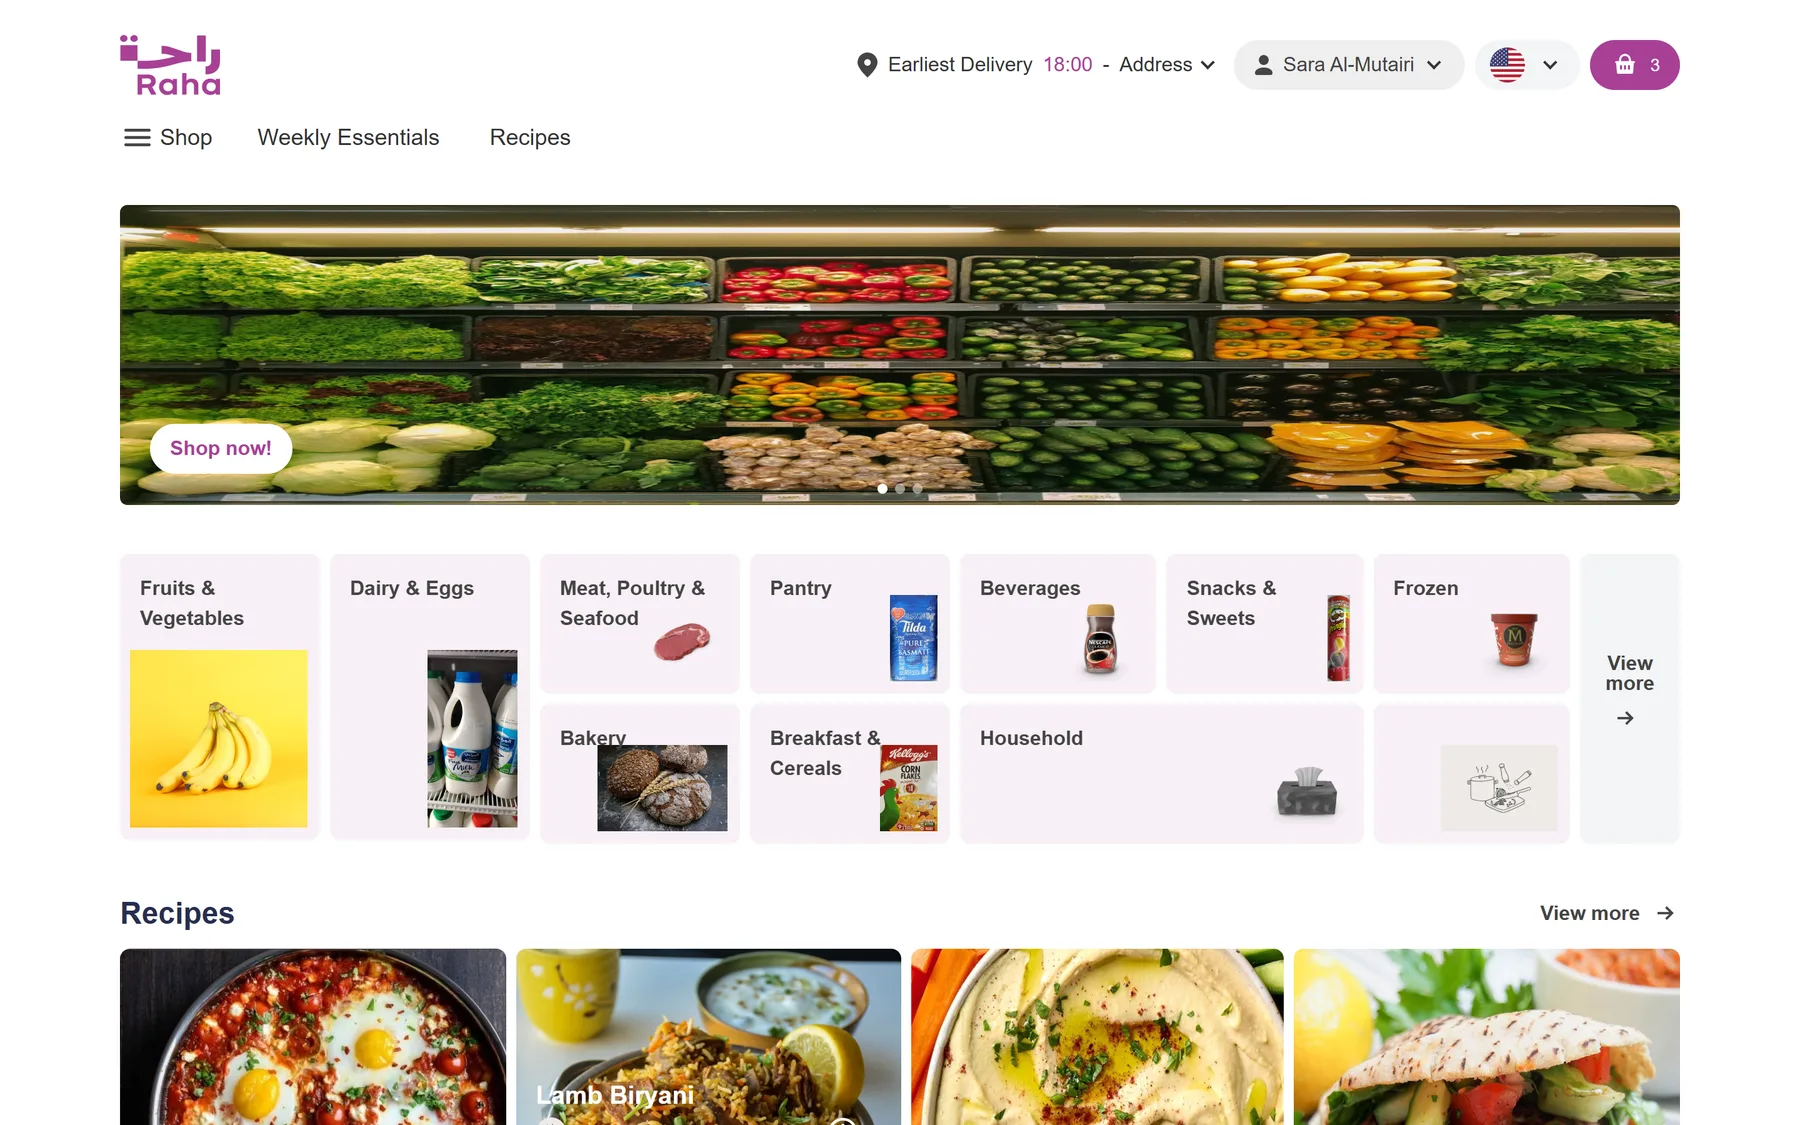
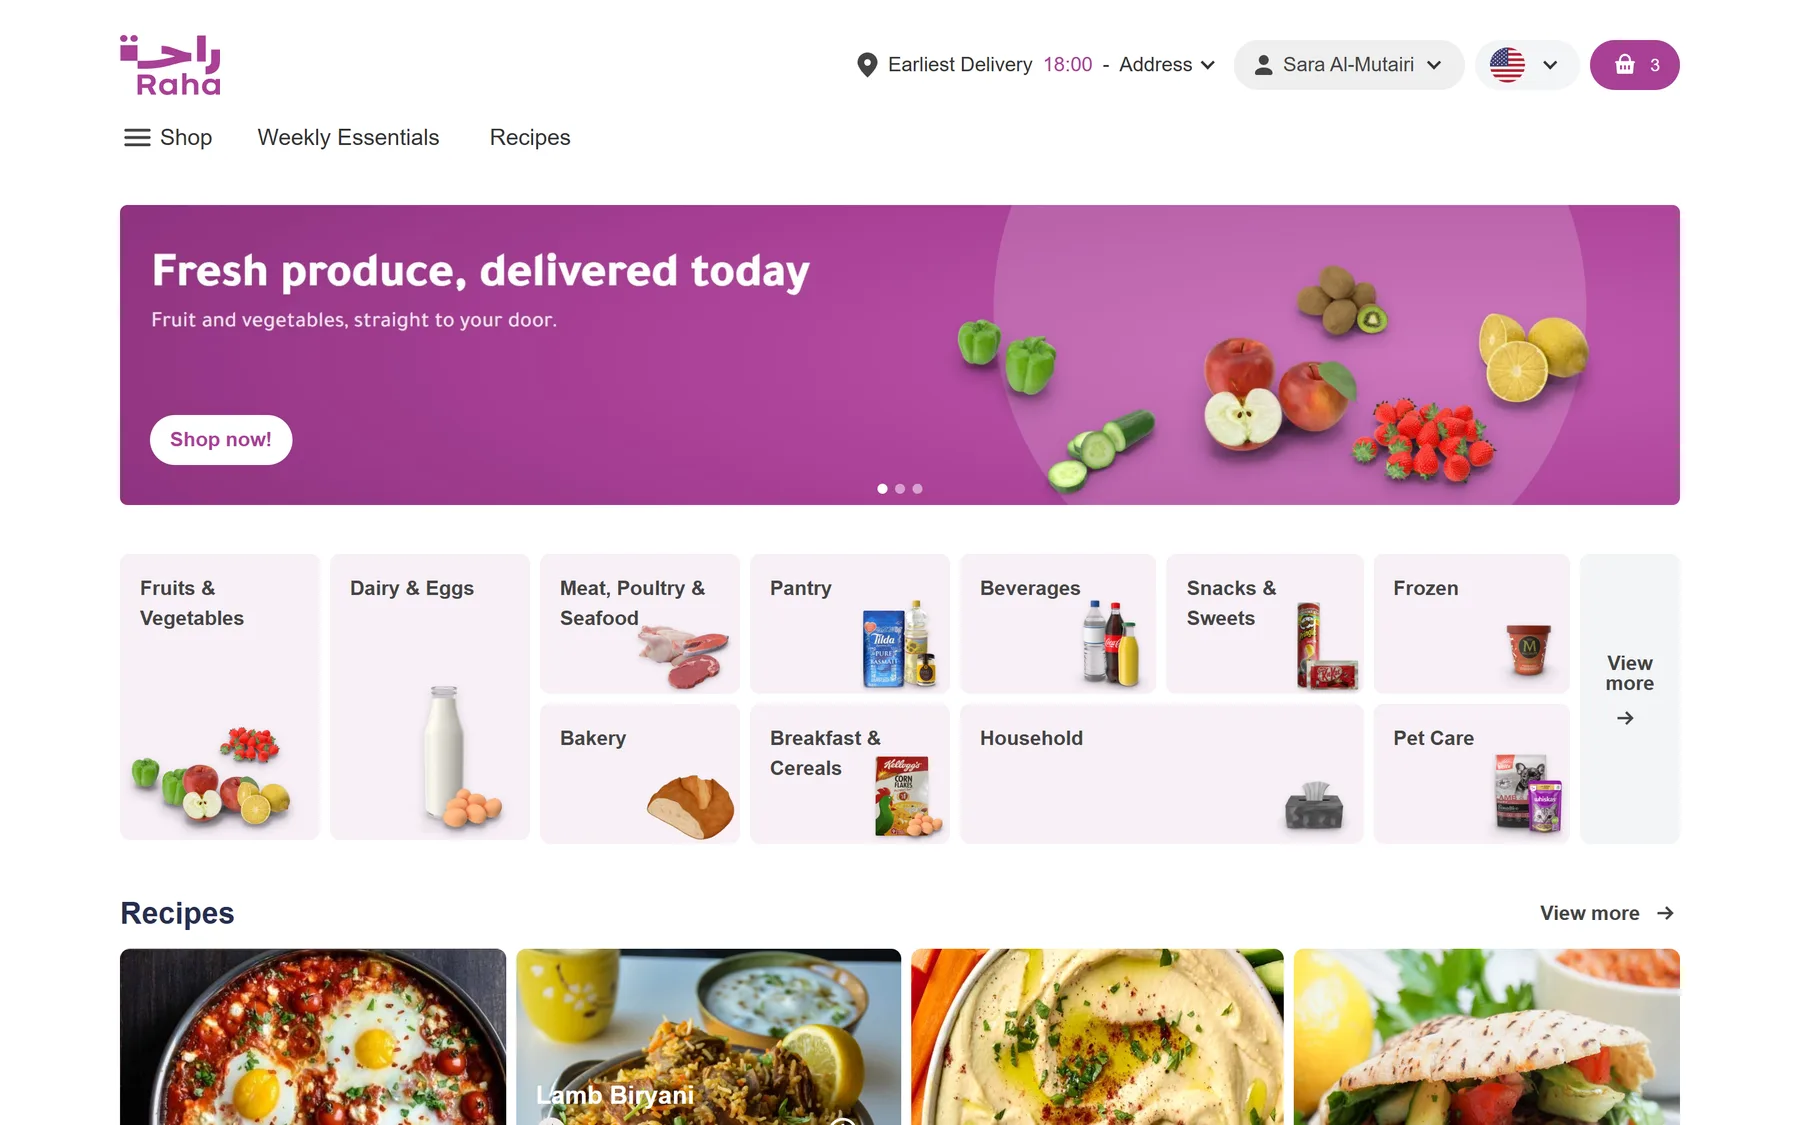
chore: update images and refine project descriptions
Replaced outdated mobile and desktop images for the ShopRaha project. Simplified project descriptions by removing references to personal contributions, enhancing clarity and focus on team efforts.

diff --git a/src/app/page.tsx b/src/app/page.tsx
@@ -192,8 +192,7 @@ function TheServicesBehind() {
     <Reveal className="plaque">
       <h3>The services behind these apps</h3>
       <p>
-        The back-end and infrastructure behind these apps, built with my teammates at ShopRaha and BTR. Where I
-        contributed, my commits are counted.
+        The back-end and infrastructure behind these apps, built with my teammates at ShopRaha and BTR.
       </p>
       <table>
         <thead>
@@ -201,7 +200,6 @@ function TheServicesBehind() {
             <th>Repository</th>
             <th>What it does</th>
             <th className="hide-sm">Stack</th>
-            <th>My commits</th>
           </tr>
         </thead>
         <tbody>
@@ -210,10 +208,6 @@ function TheServicesBehind() {
               <td className="repo">{b.repo}</td>
               <td>{b.what}</td>
               <td className="hide-sm">{Array.isArray(b.stack) ? b.stack.join(', ') : b.stack}</td>
-              <td className="num">
-                {b.authoredByAhmed ? b.authoredByAhmed.toLocaleString('en') : '—'}
-                {b.commits ? ` / ${b.commits.toLocaleString('en')}` : ''}
-              </td>
             </tr>
           ))}
         </tbody>
